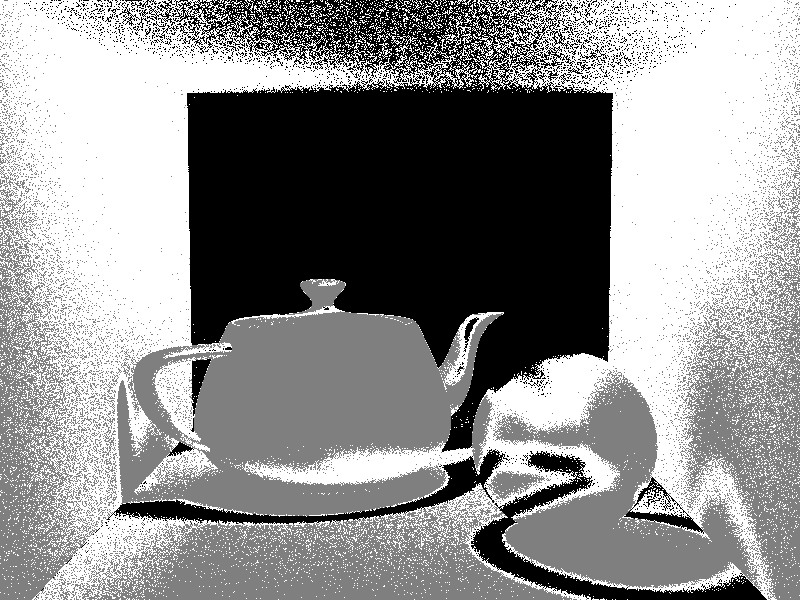
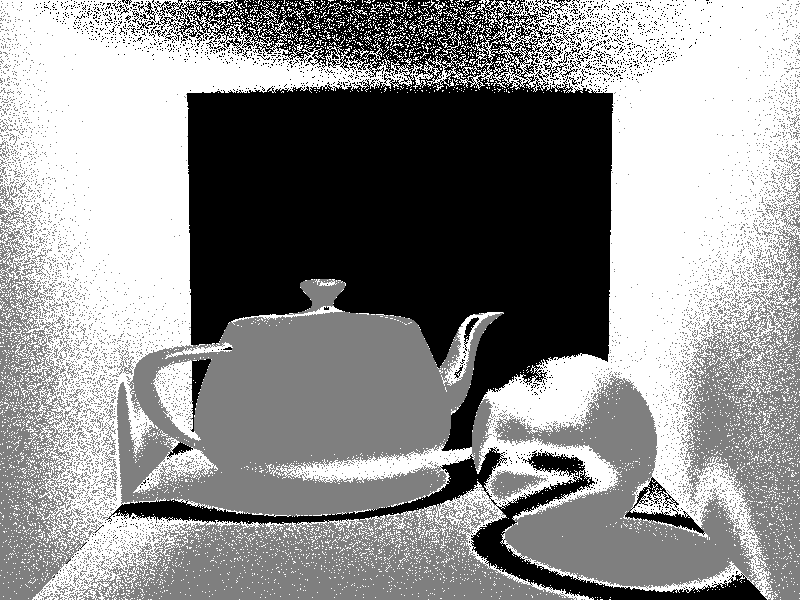
Update path tracing images with fixed code

diff --git a/courses/cs6620/prj12.html b/courses/cs6620/prj12.html
@@ -33,5 +33,11 @@
 	</table>
 	<hr>
 
+	<h3>Project Stumbling Blocks</h3>
+	When finding the orthogonal directions for hemisphere sampling, I was using the y direction directly, instead of
+	finding the cross product of the y direction and the normal.
+	<br>
+	<img src="prj12_y_dir.png" width="800px">
+
 </body>
 </html>
